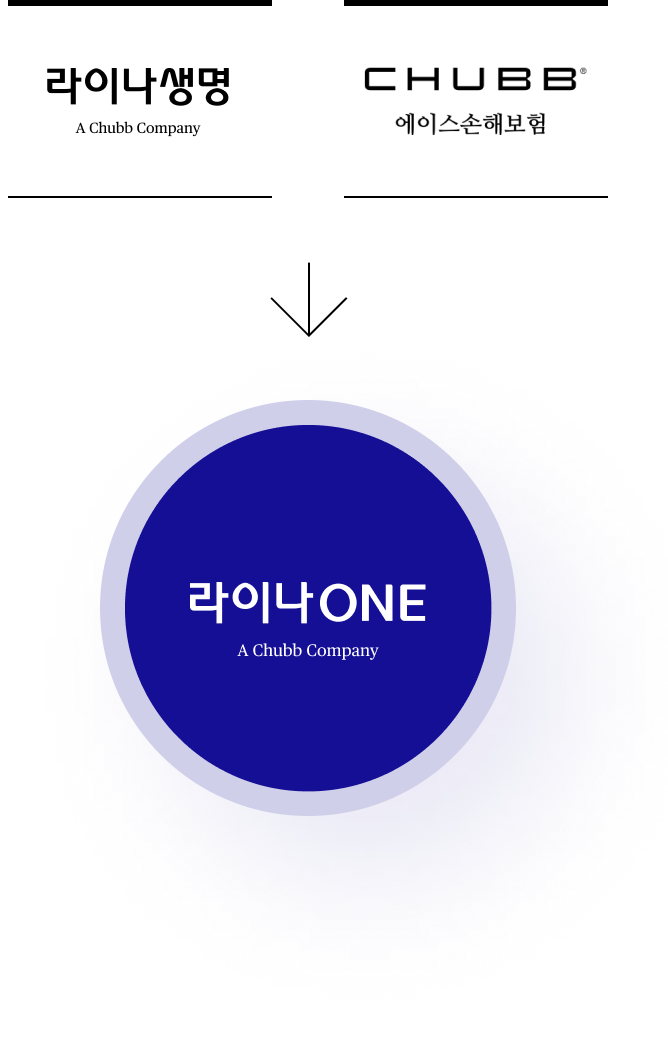
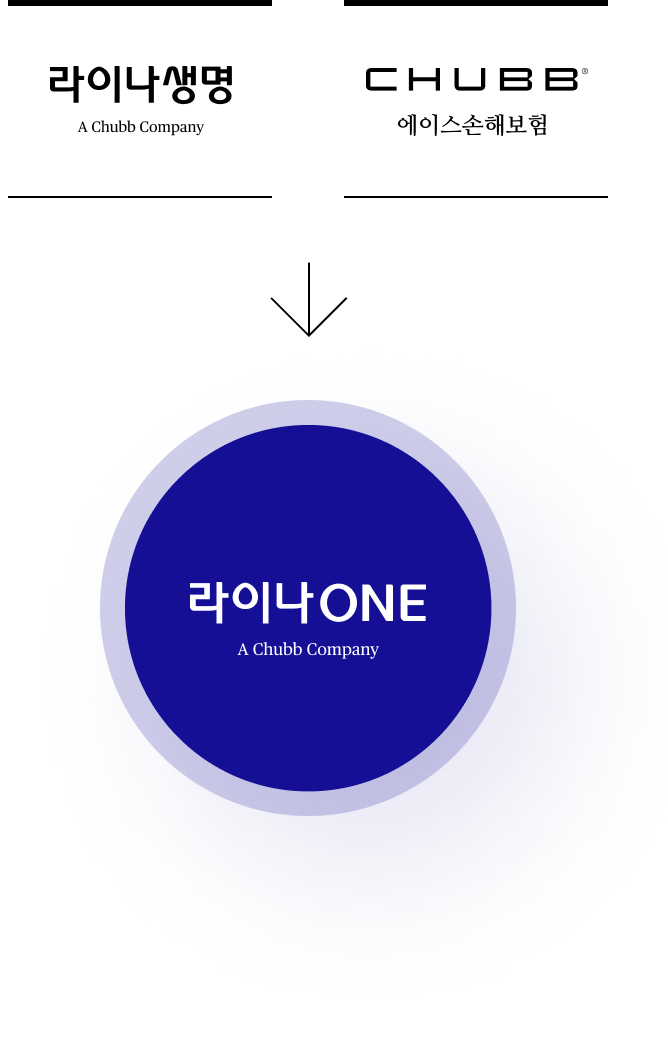
mobile image 변경 및 수정

diff --git a/mo/assets/css/about.css b/mo/assets/css/about.css
@@ -3,13 +3,14 @@
 /* OVERVIEW */
 .sub-wrap.overview .visual:before {background-image:url(../images/ab_overview_visual.png)}
 .overview .content > .desc {margin:15rem 3rem 15rem 7.6rem;padding:0;font-size:var(--title-type2);font-weight: 700;line-height:7.778vw;}
-.overview .introduction {padding:15rem 2rem 17.7rem;background:url(../images/ab_introcution_bg.png);background-size:cover;background-position:bottom;background-repeat: no-repeat;}
+.overview .introduction {padding:15rem 2rem 58.889vw;background:url(../images/ab_introcution_bg.png);background-size:cover;background-position:bottom;background-repeat: no-repeat;}
 .overview .introduction h2 {font-size:var(--basic-size);font-weight:700;line-height: 140%;}
 .overview .introduction .txt-box {padding-left:5.6rem;margin-top:5rem;}
 .overview .introduction .title {margin-bottom:2rem;font-size:var(--title-type2);line-height: 140%;font-weight:700;}
 .overview .introduction .desc {font-size:var(--small-size);color:#666;line-height:140%;font-weight:500;}
 .overview .introduction > img {display: block;width: 100%;margin:8rem auto 0;}
-.overview .introduction .diagram {margin:22.22vw 0.556vw 0;display: flex;column-gap:1.111vw;justify-content: space-between;}
+.overview .introduction .diagram {margin:22.22vw 2.778vw 0;display: flex;column-gap:11.111vw;align-items: center;justify-content: center;}
+.overview .introduction .diagram > img {position:absolute;display: block;width:12.222vw;flex:none}
 .overview .introduction .lina,
 .overview .introduction .chubb {position:relative;width:36.111vw;height:36.111vw;border-radius:50%;display: flex;justify-content: center;align-items: center;}
 .overview .introduction .lina img,
@@ -20,7 +21,7 @@
 .overview .introduction .chubb div {background:#000}
 .overview .introduction .lina {background: rgba(21, 15, 150, 0.2);box-shadow: 30px 34px 80px rgba(21, 15, 150, 0.1);}
 .overview .introduction .chubb {background: rgba(0, 0, 0, 0.2);box-shadow: 30px 34px 174px rgba(0, 0, 0, 0.2);}
-.overview .introduction .lina:after {position: absolute;background: url(../../assets/images/ab_overview_img03.png);width: 4.5rem; right: 0;height: auto;display: block;height: 1.4rem;right: -4.2rem;background-size: contain;background-repeat: no-repeat;content: '';}
+/* .overview .introduction .lina:after {position: absolute;background: url(../../assets/images/ab_overview_img03.png);width: 4.5rem; right: 0;height: auto;display: block;height: 1.4rem;right: -4.2rem;background-size: contain;background-repeat: no-repeat;content: '';} */
 .overview .count-box {margin-top: 15rem;}
 .overview .count-box h2 {margin-bottom:5rem;font-size:var(--basic-size);font-weight:700;line-height: 140%;}
 .overview .count-box p {padding-left:5.6rem;font-size:var(--title-type2);line-height: 140%;font-weight:700;}

diff --git a/mo/pages/about/MO_AB010000S.html b/mo/pages/about/MO_AB010000S.html
@@ -90,19 +90,19 @@
                         라이나원은 생명보험과 손해보험을 함께 제공하는 통합솔루션 프로바이더로서, 고객이 더 쉽고 빠르게 보장 받을 수 있도록 통합솔루션 제공을 지향하며 보험의 혁신을 계속해 나가는 회사입니다.
                     </p>
                 </div>
-                <!-- <div class="diagram">
+                <div class="diagram">
                     <div class="lina">
                         <div>
                             <img src="../../assets/images/ab_overview_img01.png">
                         </div>
                     </div>
+                    <img src="../../assets/images/ab_overview_img03.png" alt="">
                     <div class="chubb">
                         <div>
                             <img src="../../assets/images/ab_overview_img02.png">
                         </div>
                     </div>
-                </div> -->
-                <img src="../../assets/images/ab_introcution_img.png" alt="">
+                </div>
             </div>
             <div class="count-box inner" data-aos="fade-up">
                 <h2>라이나생명</h2>
